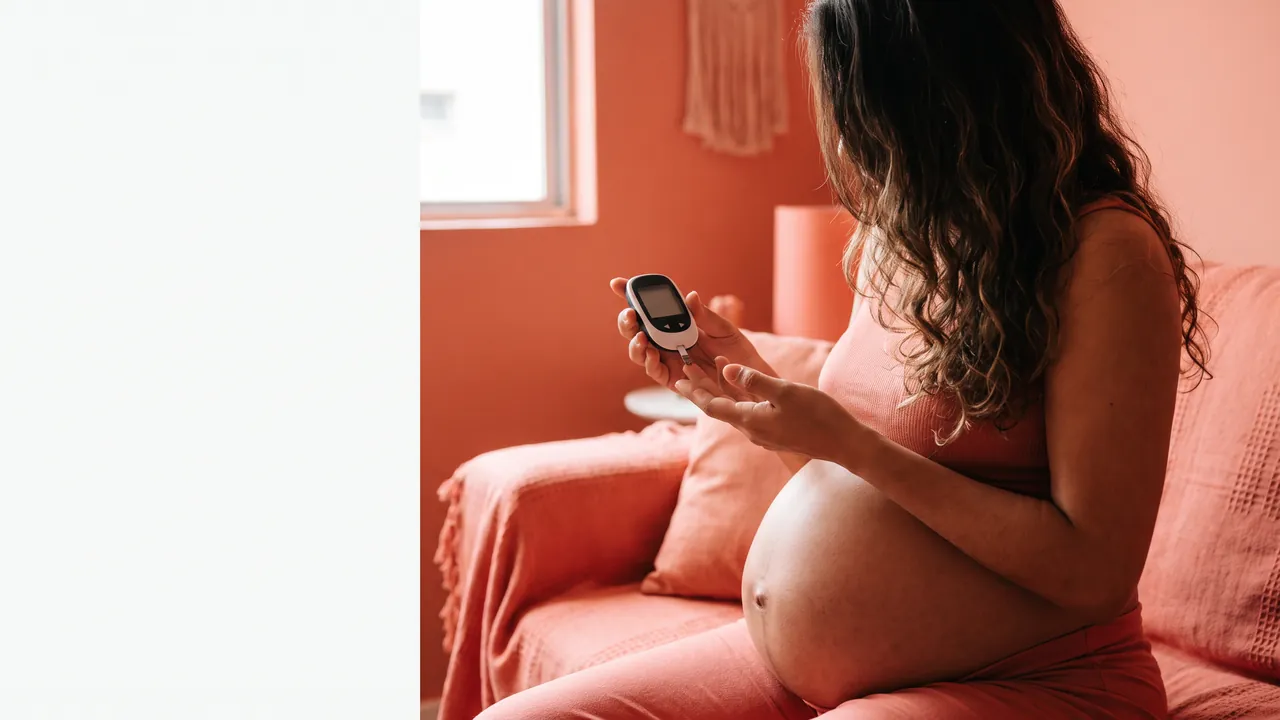
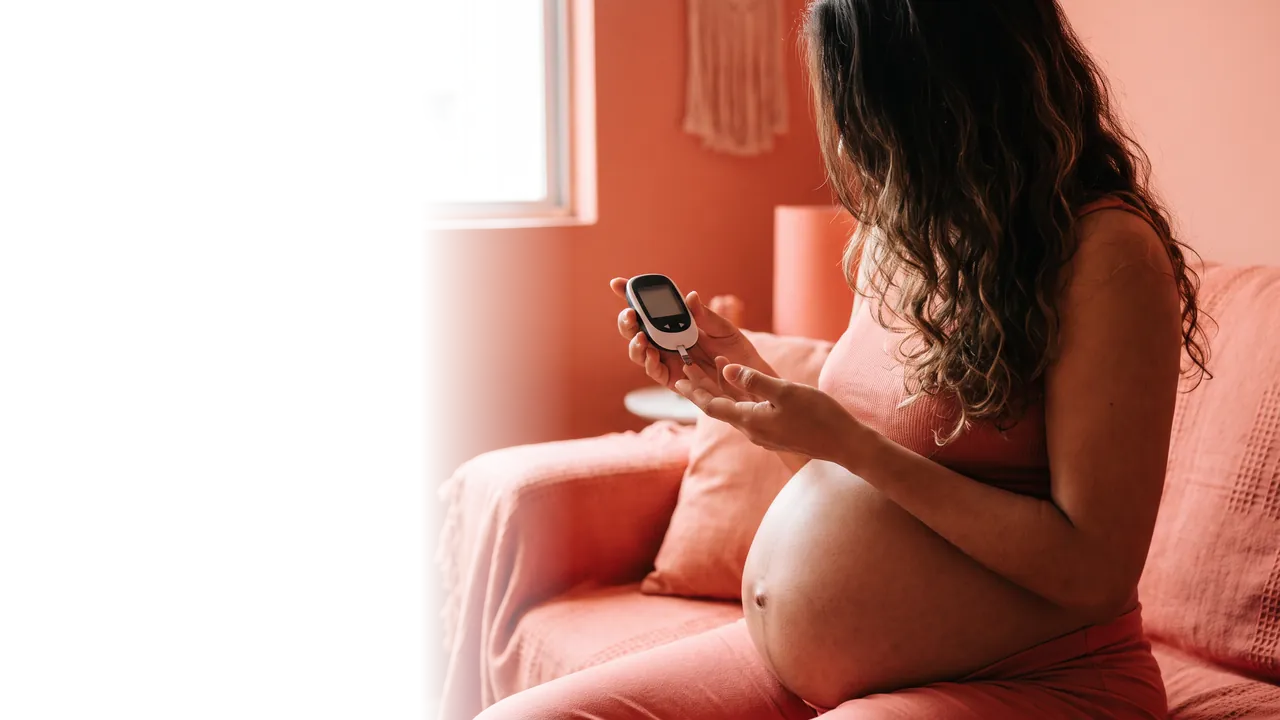
Temas Essenciais: 11 fotos de risco regeradas (retidas), 5 liberadas ao cartao, emenda vertical das fotos corrigida

Changed region(s): [[0.3125, 0.275, 0.4375, 1.0], [0.3125, 0.1222, 0.3438, 0.1528]]

diff --git a/scripts/sincronizar-fotos-temas.py b/scripts/sincronizar-fotos-temas.py
@@ -24,7 +24,12 @@ import sys
 from datetime import date
 from pathlib import Path
 
-from PIL import Image
+from PIL import Image, ImageFilter
+
+try:
+    import numpy as np
+except ImportError:  # sem numpy: não corrige a borda, o resto funciona
+    np = None
 
 RAIZ = Path(__file__).resolve().parent.parent
 ORIGEM_PADRAO = Path("/Volumes/StaziaMed/.tmp-aulas/imagens-temas/v2")
@@ -59,9 +64,36 @@ def recorte_16_9(img: Image.Image) -> Image.Image:
     return img.crop((0, topo, w, topo + nova))
 
 
+def apagar_borda_vertical(img: Image.Image) -> Image.Image:
+    """Alguns PNGs do gerador vêm com uma emenda vertical dura (painel liso à esquerda + foto à direita, ou quina de parede).
+    No cartão, a máscara de esmaecimento não esconde esse degrau e aparece uma linha vertical no tema claro.
+    Aqui a emenda é achada (degrau de brilho consistente na altura toda, entre 20% e 62% da largura) e tudo à esquerda dela
+    vira TRANSPARENTE; a foto ganha um esmaecimento próprio (alfa de 0 a 1 em 12% da largura) a partir da emenda.
+    Assim o cartão (que mostra a foto sobre o branco) não tem mais degrau. Sem emenda: devolve a imagem igual."""
+    if np is None:
+        return img
+    w, h = img.size
+    peq = np.asarray(img.convert("L").resize((w // 4, h // 4))).astype(float)
+    d = np.abs(np.diff(peq, axis=1)).mean(axis=0)
+    lo, hi = int(len(d) * 0.20), int(len(d) * 0.62)
+    i = lo + int(d[lo:hi].argmax())
+    if d[i] < 30 or d[i] < 12 * float(np.median(d)):
+        return img
+    x = (i + 1) * 4
+    a = np.asarray(img.convert("RGB")).copy()
+    a[:, :x, :] = a[:, x : x + 1, :]  # cor sob a transparência = a da borda (evita halo ao reduzir)
+    alfa = np.zeros((h, w), dtype=float)
+    rampa = max(8, int(w * 0.12))
+    alfa[:, x:] = 1.0
+    alfa[:, x : x + rampa] = np.linspace(0, 1, rampa)[None, :]
+    out = Image.fromarray(np.dstack([a, np.clip(alfa * 255, 0, 255).astype("uint8")]).astype("uint8"), "RGBA")
+    out.info["borda_corrigida"] = round((i + 1) / len(d), 3)
+    return out
+
+
 def webp(caminho: Path) -> tuple[bytes, int]:
     with Image.open(caminho) as bruto:
-        img = recorte_16_9(bruto.convert("RGB")).resize((LARGURA, ALTURA), Image.LANCZOS)
+        img = recorte_16_9(apagar_borda_vertical(bruto.convert("RGB"))).resize((LARGURA, ALTURA), Image.LANCZOS)
     q = QUALIDADE_INICIAL
     while True:
         buf = io.BytesIO()
@@ -76,6 +108,7 @@ def main() -> int:
     ap = argparse.ArgumentParser(description="Sincroniza as fotos dos Temas Essenciais.")
     ap.add_argument("--origem", type=Path, default=ORIGEM_PADRAO)
     ap.add_argument("--prompts", type=Path, default=PROMPTS_PADRAO)
+    ap.add_argument("--refazer", action="store_true", help="reconverte também os PNG já convertidos (mantém o estado de cada tema)")
     ap.add_argument("--seco", action="store_true", help="só mostra o que faria")
     a = ap.parse_args()
 
@@ -101,7 +134,7 @@ def main() -> int:
             continue
         imp = impressao(png)
         arquivo = DESTINO / f"{codigo}.webp"
-        if atual and atual.get("origem") == imp and arquivo.is_file():
+        if atual and atual.get("origem") == imp and arquivo.is_file() and not a.refazer:
             pulados += 1
             continue
         try:
@@ -114,7 +147,7 @@ def main() -> int:
             "arquivo": f"/temas/foto/{codigo}.webp",
             "tipo": p.get("tipo"),
             "risco_medico": p.get("risco_medico") or p.get("risco", "baixo"),
-            "estado": PENDENTE,
+            "estado": atual["estado"] if (atual and a.refazer and atual.get("origem") == imp) else PENDENTE,
             "origem": imp,
             "bytes": len(dados),
             "qualidade": q,
